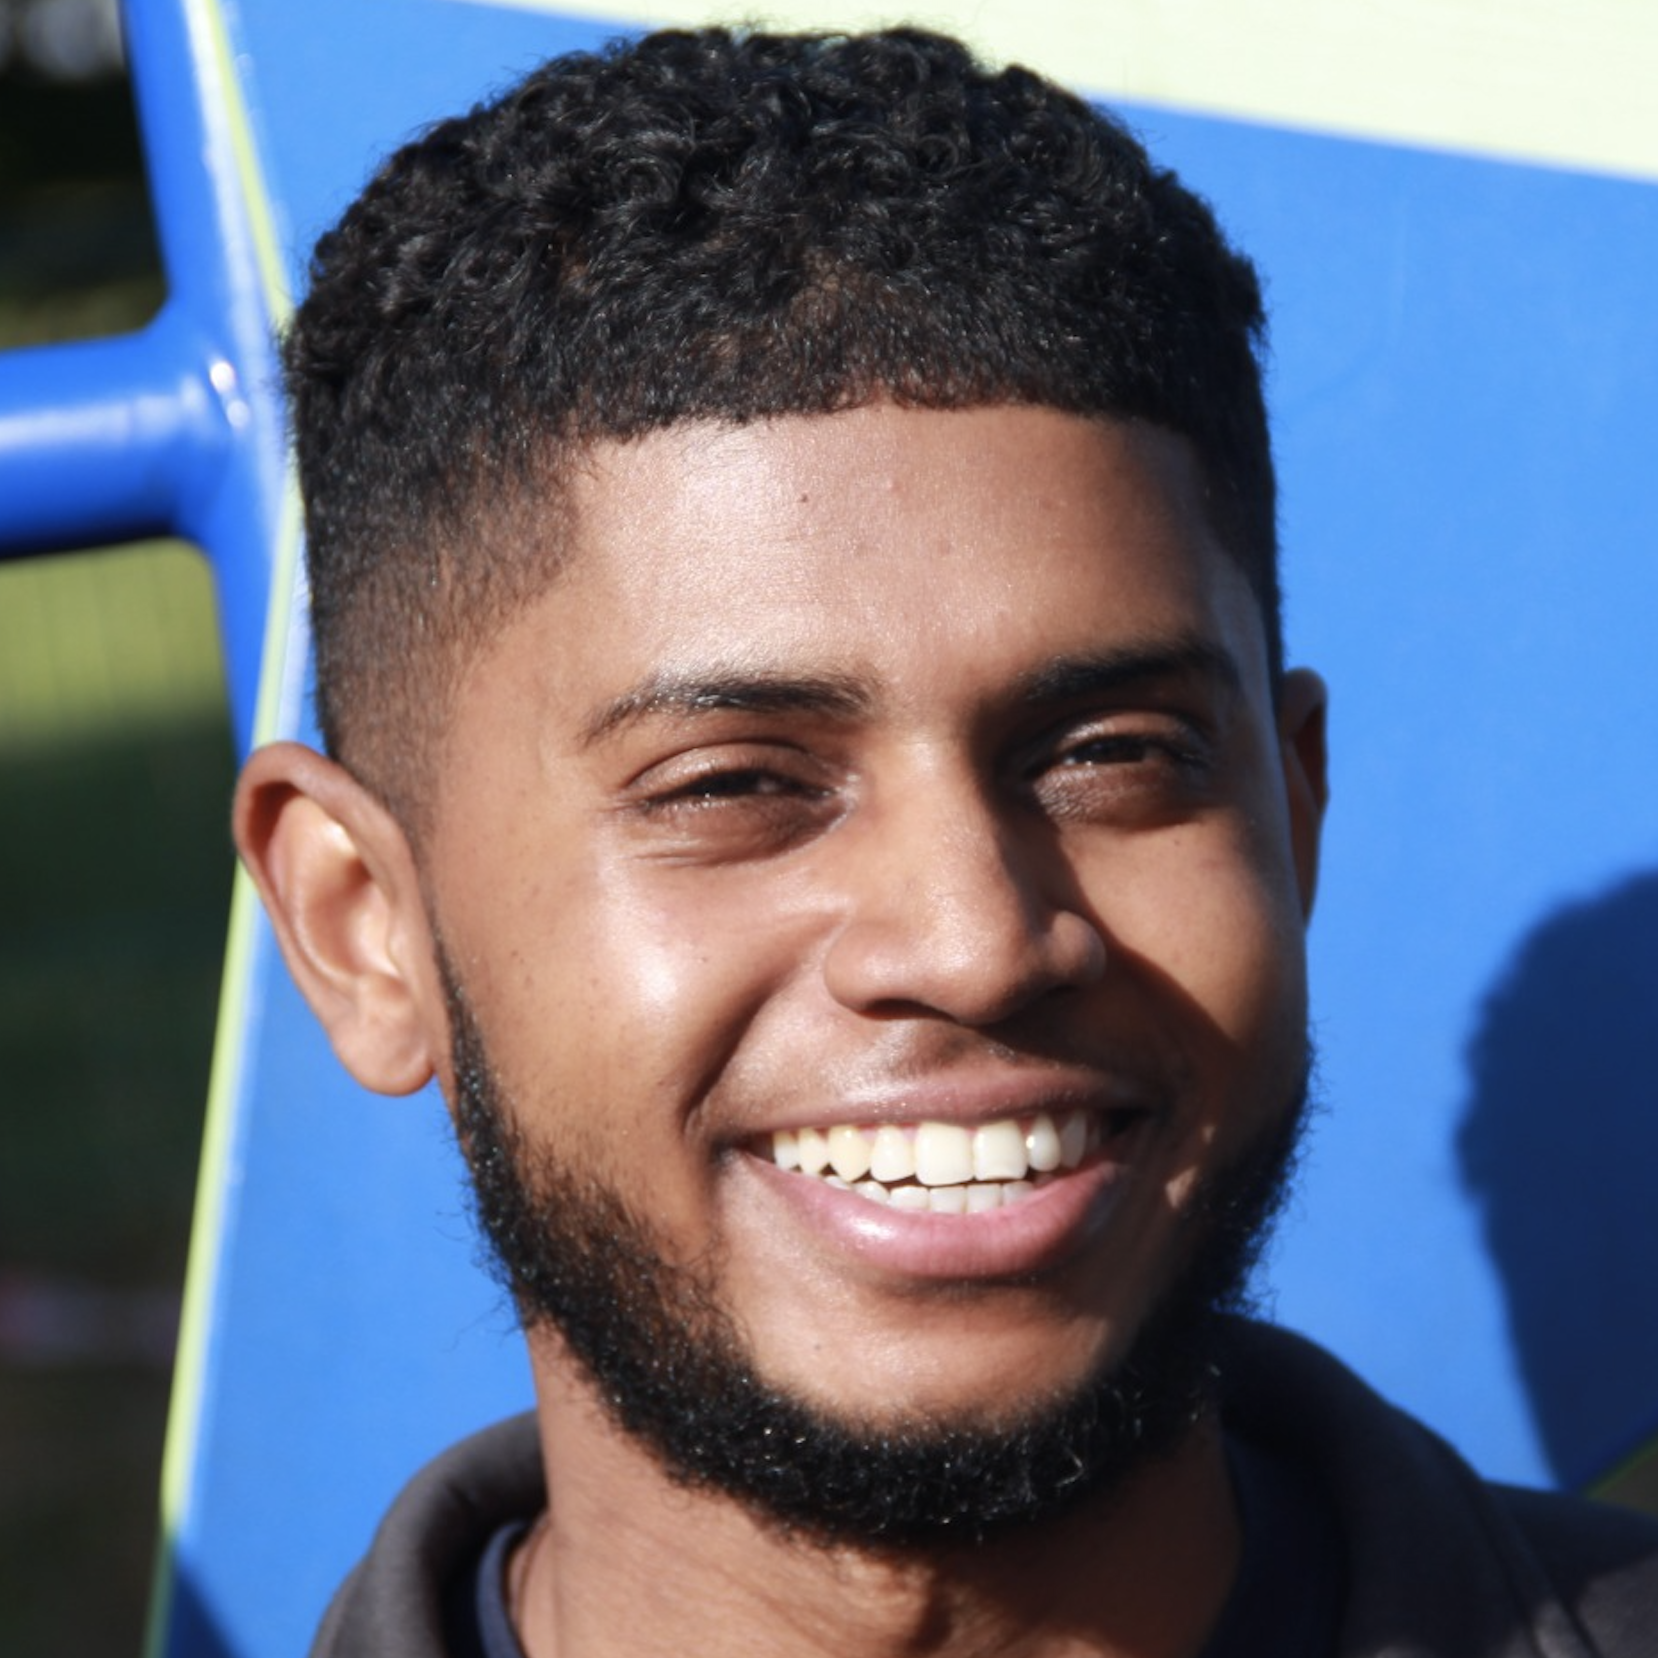
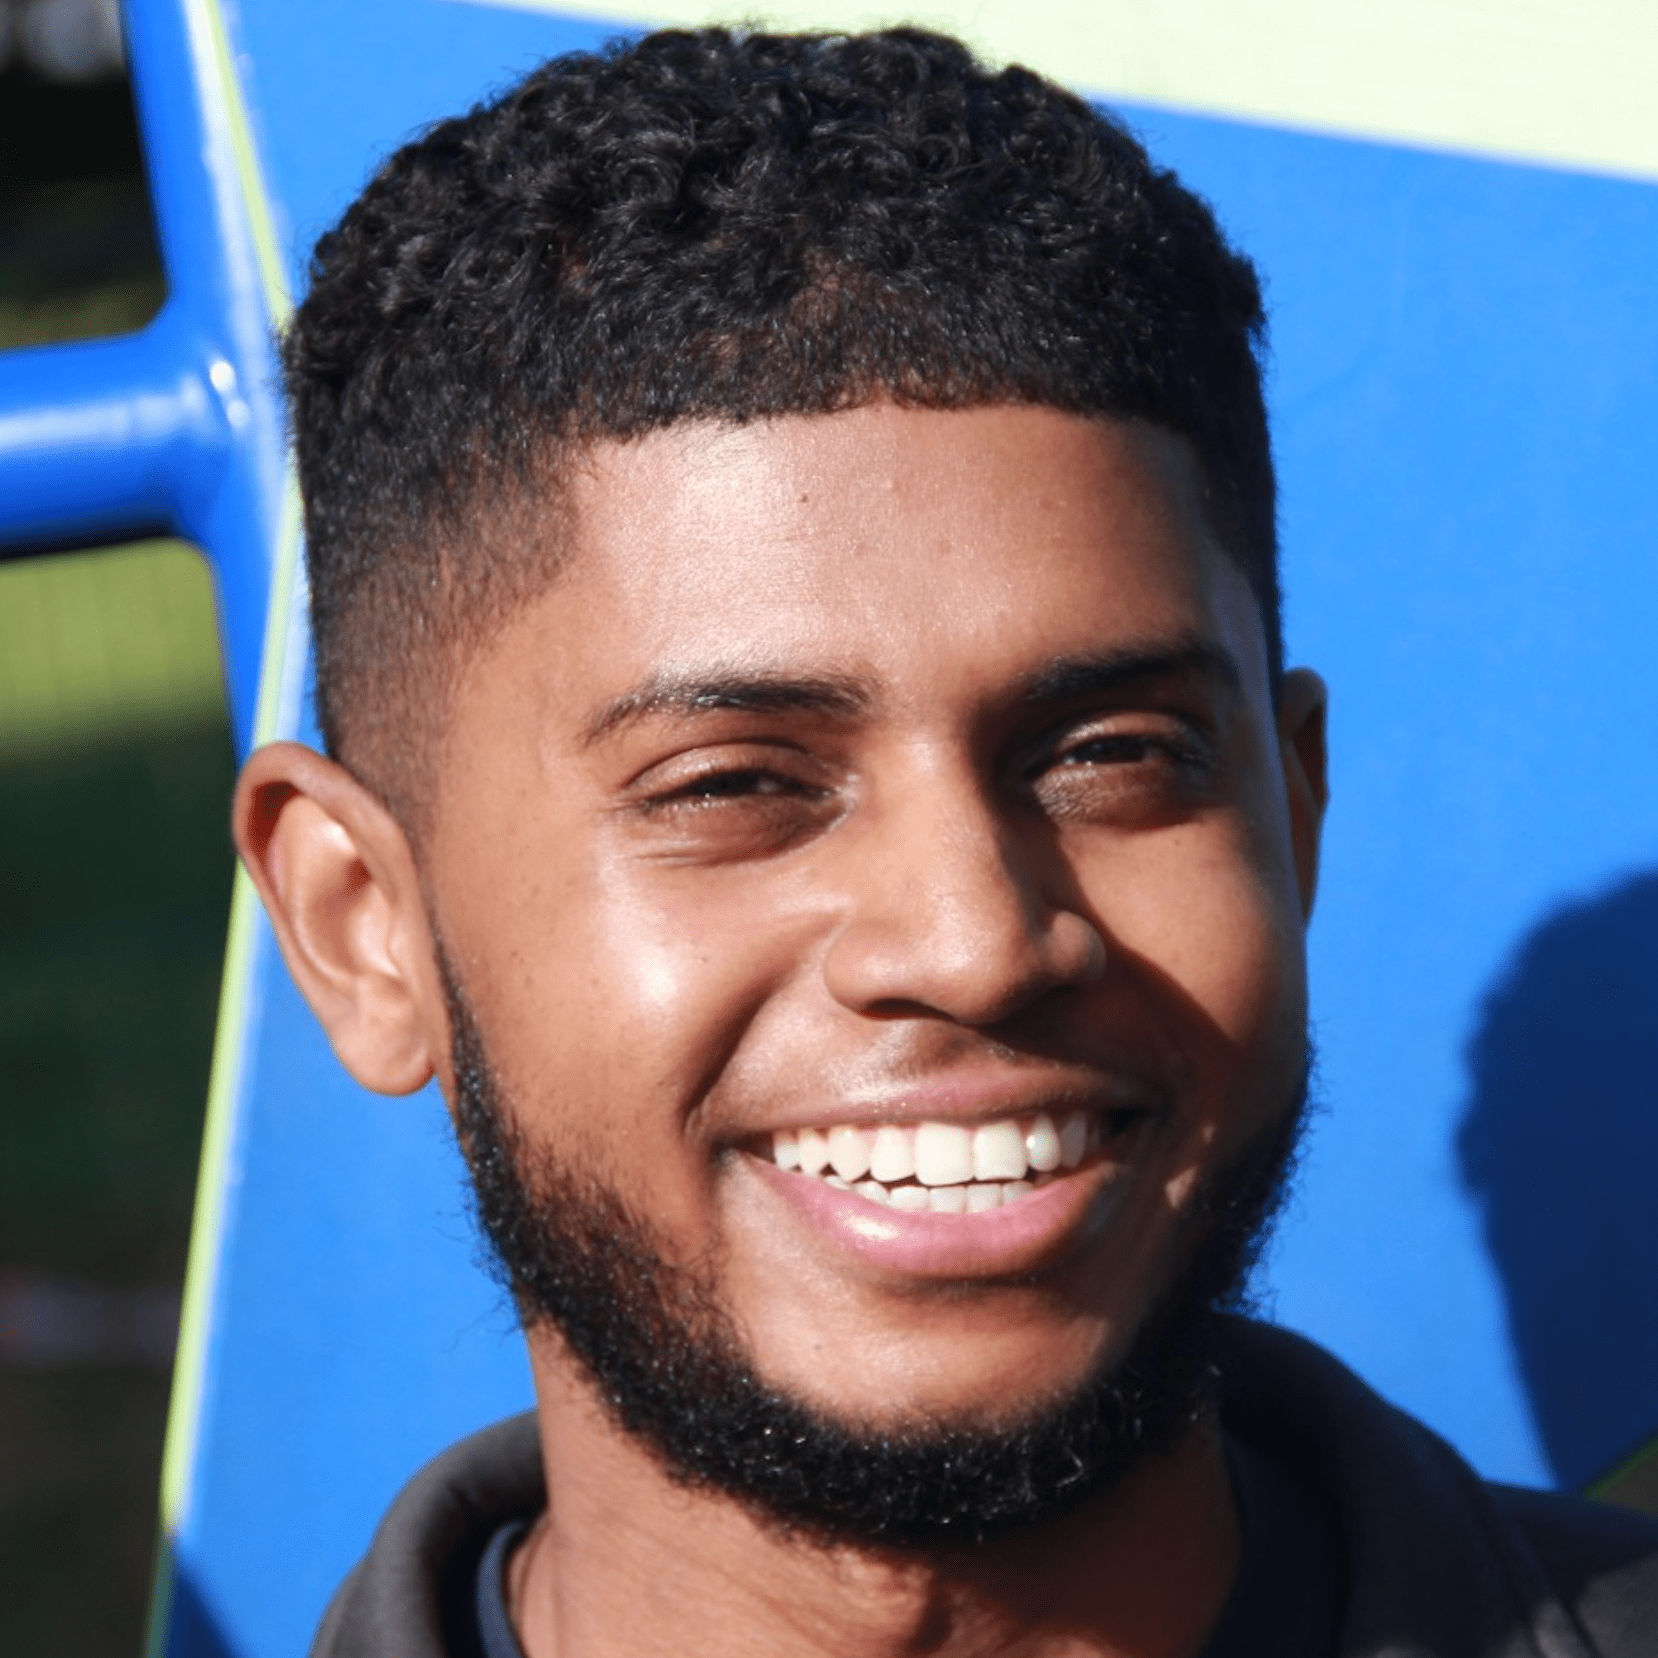
update frontend components

diff --git a/Frontend/index.html b/Frontend/index.html
@@ -104,9 +104,10 @@
         
           <div class="col-xl-9 mx-auto">
           
-            <h2 class="mb-5">
-              Subscribe now and get daily coding tips free!
-            </h2>
+           <h1 class="mb-5 h1">
+              Subscribe for free Coding Tips.
+            </h1>
+            
             
             
           </div>
@@ -151,8 +152,10 @@
               <div class="form-group col-md-6 mx-auto">
                 <select id="categories" class="form-control" required>
                   <option value="">Language</option>
-                  <option value="js_tips">JavaScript Tips</option>
-                  <option value="python_tips">Python Tips</option>
+                  <option value="js_tips">JavaScript</option>
+                  <option value="python_tips">Python
+                  </option>
+
                 </select>
               </div>
 
@@ -202,7 +205,7 @@
               <div class="features-icons-icon d-flex">
                 <i class="icon-user m-auto text-primary"></i>
               </div>
-              <h3>Register</h3>
+              <h3 class="h3">Register</h3>
               <p class="lead mb-0">
                  Subscribe above using our super simple form.
               </p>
@@ -213,7 +216,7 @@
               <div class="features-icons-icon d-flex">
                 <i class="icon-notebook m-auto text-primary"></i>
               </div>
-              <h3>Choose your category</h3>
+              <h3 class="h3">Choose your category</h3>
               <p class="lead mb-0">
                 Choose the programming language of your choice from our list.
               </p>
@@ -224,7 +227,7 @@
               <div class="features-icons-icon d-flex">
                 <i class="icon-check m-auto text-primary"></i>
               </div>
-              <h3>You're all set</h3>
+              <h3 class="h3">You're all set</h3>
               <p class="lead mb-0">
                 Start receiving daily tips straight to your mobile phone!
               </p>
@@ -238,9 +241,9 @@
     <hr>
     <section class="testimonials text-center bg-light">
       <div class="container">
-        <h2 class="mb-5">About us</h2>
+        <h2 class="mb-5 display-4">About us</h2>
         <div class="col-sm-10 mx-auto">
-        <p style="text-align: left; font-size: large;"> Former colleagues, friends and now Full Stack Software Engineers based in South London, we decided to launch a series of products catered to helping the tech community. 
+        <h5 class="display-4" style="text-align: left; font-size: large;"> Former colleagues, friends and now Full Stack Software Engineers based in South London, we decided to launch a series of products catered to helping the tech community. 
           <br>
           <br>
 
@@ -250,7 +253,7 @@
           <br>
           
          
-          </p>
+        </h5>
           <br>
           <br>
           <br>
@@ -260,7 +263,7 @@
             <div class="testimonial-item mx-auto mb-5 mb-lg-0">
               <img
                 class="img-fluid rounded-circle mb-3"
-                src="img/mohamed1.png"
+                src="img/mohamed.png"
                 alt=""
               />
               <h5>Mo Sheikh</h5>

diff --git a/helpers/sms.py b/helpers/sms.py
@@ -17,7 +17,7 @@ def send_message(sender, recipient, msg, title):
         message = client.messages.create(
             to=recipient,
             from_="Codivate",
-            body=f"*{title.capitalize()} Question*\n\n{msg}")
+            body=f"*{title.capitalize()} Tip*\n\n{msg}\n\nEnjoy the content?\nSupport us on https://www.buymeacoffee.com/Codivate")
         logging.info(f"Sent text message to {recipient}!")
     except Exception as e:
         logging.error("Unable to send SMS", e)
